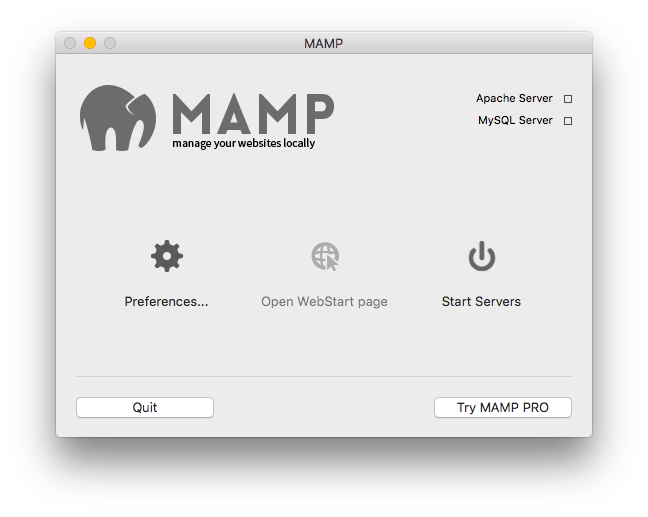
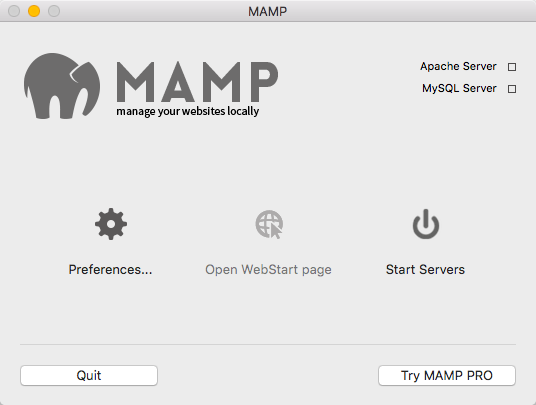
Updated post.

diff --git a/pages/blog/2015-11-16-running-grav-locally-with-mamp/post.md b/pages/blog/2015-11-16-running-grav-locally-with-mamp/post.md
@@ -23,15 +23,18 @@ One of the (many) great things about [Grav](http://getgrav.org) is that no datab
 4. Launch the MAMP application
 5. Press the MAMP button 'Start Servers' (see Figure 1)
 6. Enter the URL http://localhost:8888 and press the RETURN key
-7. In your Browser press on the displayed Grav folder name
+7. In your Browser you should now see the htdocs directory listing - press on the displayed Grav folder name
 8. Done!
 
-![MAMP Welcome Screen](../2015-11-16-running-grav-locally-with-mamp/MAMP.png)
+![MAMP Welcome Screen](../2015-11-16-running-grav-locally-with-mamp/MAMP.png)  
 _Figure 1. MAMP startup screen._
 
 If you would prefer to only need to enter 'http://localhost' in your Browser to access your MAMP htdocs directory listing, then do the following:
 
 1. Launch the MAMP application. If MAMP is already running, press the 'Stop Servers' button
-2. Press the MAMP 'Preferences' button
+2. Press the MAMP 'Preferences' button (see Figure 2)
 3. Press the 'Ports' tab in the 'Preferences' dialog
 4. Change the value in the 'Appache Port' field to '80' (no quotes)
+
+![MAMP Preferences Dialog](../2015-11-16-running-grav-locally-with-mamp/MAMP-preferences.png)  
+_Figure 2. MAMP Preferences dialog._
